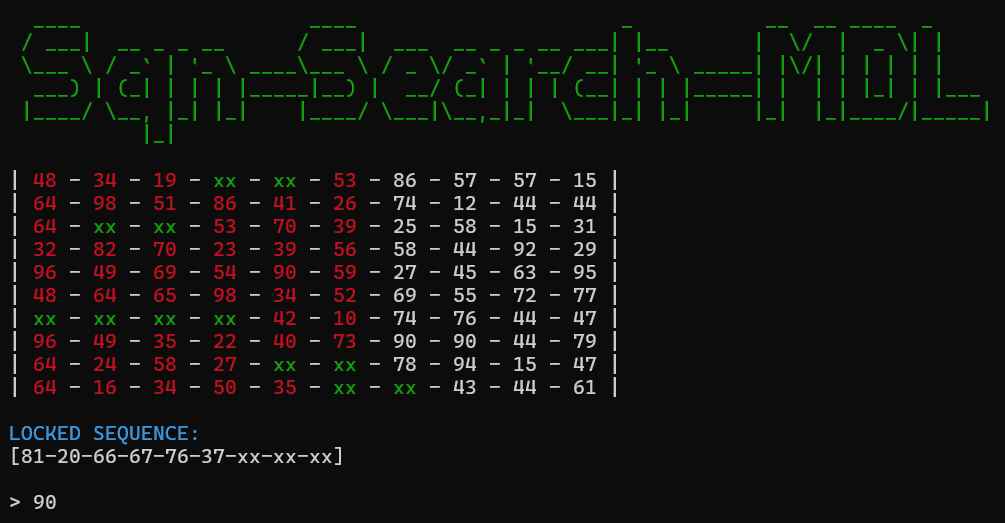
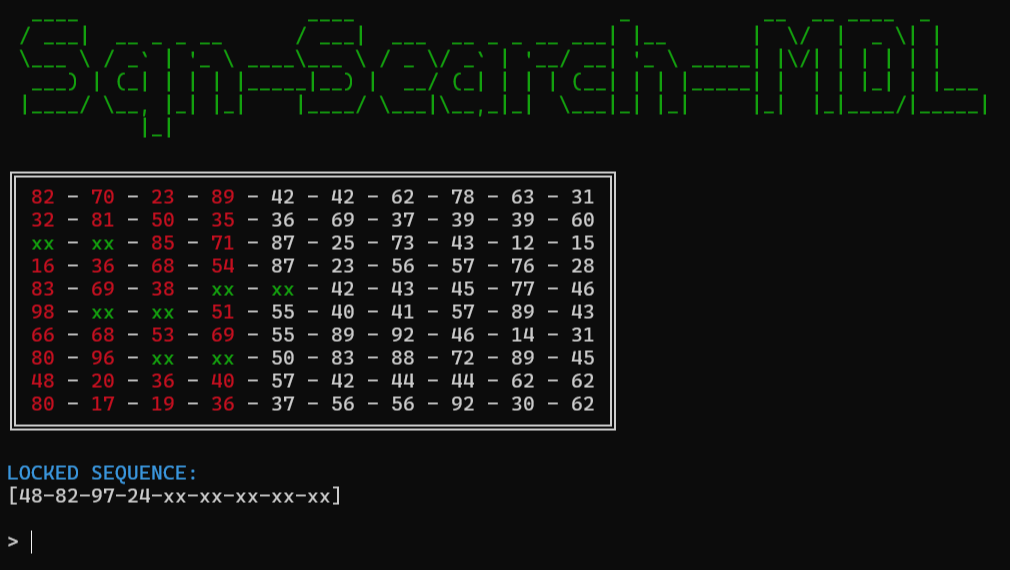
v1.1.0 - Input and Style Rework

Changed region(s): [[0.0, 0.0306, 0.9871, 0.7648], [0.0, 0.7954, 0.3393, 0.8872], [0.0, 0.9484, 0.0617, 0.979]]

diff --git a/src/main/java/dbrusev/Minijuego_ES.java b/src/main/java/dbrusev/Minijuego_ES.java
@@ -112,16 +112,17 @@ public class Minijuego_ES {
 				funciones.muestraSecuenciaDesbloqueada(secuenciaDesbloqueada, secuenciaNumeros.size());
 				try {System.out.print("> "); entradaUsuario = lector.nextInt();}
 				catch (InputMismatchException noEsNumero) {entradaUsuario = 0; lector.next(); funciones.limpiarConsola(false);}
+				if (entradaUsuario < 10) {funciones.limpiarConsola(false);}
 			}
-			
+
 			for (int i = 0; i < funciones.getFilas(); i++) {
-				if (entradaUsuario == secuenciaNumeros.get(0) && i == secuenciaFilas.get(0)) {
+				if (entradaUsuario == secuenciaNumeros.getFirst() && i == secuenciaFilas.getFirst()) {
 					secuenciaDesbloqueada.set(contadorColumna, Integer.toString(entradaUsuario));
 					tableroJuego[i][contadorColumna] = tableroJuego[i][contadorColumna+1] = "xx";
-					
-					secuenciaNumeros.remove(0); secuenciaFilas.remove(0);
+
+					secuenciaNumeros.removeFirst(); secuenciaFilas.removeFirst();
 					contadorColumna++; break;
-				}
+				} else {funciones.limpiarConsola(false);}
 			} funciones.limpiarConsola(false);
 		} contadorColumna++;
 		
@@ -136,7 +137,7 @@ public class Minijuego_ES {
 			System.out.print(" en " + tiempoCompletado + " segundos -\n");
 			
 			System.out.println("Estadísticas guardadas en " + ansi().fg(YELLOW).a(guardaStats.getLocalizacionArchivo()).reset());
-		} else {System.out.println("Modo debug " + ansi().fg(RED).a("activado").reset() + ": no se han guardado las estadísticas.");}
+		} else {System.out.print(" -\nModo debug " + ansi().fg(RED).a("activado").reset() + ": no se han guardado las estadísticas.");}
 	}
 	
 }

diff --git a/src/main/java/dbrusev/Minijuego_EN.java b/src/main/java/dbrusev/Minijuego_EN.java
@@ -112,16 +112,17 @@ public class Minijuego_EN {
 				funciones.muestraSecuenciaDesbloqueada(secuenciaDesbloqueada, secuenciaNumeros.size());
 				try {System.out.print("> "); entradaUsuario = lector.nextInt();}
 				catch (InputMismatchException noEsNumero) {entradaUsuario = 0; lector.next(); funciones.limpiarConsola(false);}
+				if (entradaUsuario < 10) {funciones.limpiarConsola(false);}
 			}
-			
+
 			for (int i = 0; i < funciones.getFilas(); i++) {
-				if (entradaUsuario == secuenciaNumeros.get(0) && i == secuenciaFilas.get(0)) {
+				if (entradaUsuario == secuenciaNumeros.getFirst() && i == secuenciaFilas.getFirst()) {
 					secuenciaDesbloqueada.set(contadorColumna, Integer.toString(entradaUsuario));
 					tableroJuego[i][contadorColumna] = tableroJuego[i][contadorColumna+1] = "xx";
-					
-					secuenciaNumeros.remove(0); secuenciaFilas.remove(0);
+
+					secuenciaNumeros.removeFirst(); secuenciaFilas.removeFirst();
 					contadorColumna++; break;
-				}
+				} else {funciones.limpiarConsola(false);}
 			} funciones.limpiarConsola(false);
 		} contadorColumna++;
 		
@@ -136,7 +137,7 @@ public class Minijuego_EN {
 			System.out.print(" in " + tiempoCompletado + " seconds -\n");
 			
 			System.out.println("Round stats saved in " + ansi().fg(YELLOW).a(guardaStats.getLocalizacionArchivo()).reset());
-		} else {System.out.println("Debug mode " + ansi().fg(RED).a("enabled").reset() + ": stats will not be saved.");}
+		} else {System.out.print(" -\nDebug mode " + ansi().fg(RED).a("enabled").reset() + ": stats will not be saved.");}
 	}
 	
 }

diff --git a/src/main/java/dbrusev/Funciones.java b/src/main/java/dbrusev/Funciones.java
@@ -134,9 +134,16 @@ public class Funciones {
 	}
 	
 	public void muestraTablero(String[][] tablero, int contador) {
+		int bordesTablero = (columnas - 1) + (columnas * 4);
 		muestraTitulo(); contador--;
+
+		System.out.print("╔");
+		for (int bordeDibujado = 0; bordeDibujado < bordesTablero; bordeDibujado++) {
+			System.out.print("═");
+		} System.out.print("╗\n");
+
 		for (int i = 0; i < filas; i++) {
-			System.out.print("| ");
+			System.out.print("║ ");
 			for (int j = 0; j < columnas; j++) {
 				if (tablero[i][j] == "xx") {
 					if (j + 1 == columnas) {System.out.print(ansi().fg(GREEN).a(tablero[i][j]).reset());}
@@ -150,8 +157,14 @@ public class Funciones {
 						else {System.out.print(tablero[i][j] + " - ");}
 					}
 				}
-			} System.out.print(" |\n");
+			} System.out.print(" ║\n");
 		}
+
+		System.out.print("╚");
+		for (int bordeDibujado = 0; bordeDibujado < bordesTablero; bordeDibujado++) {
+			System.out.print("═");
+		} System.out.print("╝\n");
+
 	}
 	
 	public void muestraSecuenciaDesbloqueada(List<String> secuencia, int numsPorDesbloquear) {

diff --git a/src/main/java/dbrusev/CPrincipal.java b/src/main/java/dbrusev/CPrincipal.java
@@ -21,7 +21,7 @@ public class CPrincipal {
 			System.out.println("AVAILABLE LANGUAGES:");
 			System.out.println("1) English");
 			System.out.println("2) Español\n");
-			try {System.out.print("> ");; idiomaEscogido = lector.nextInt();}
+			try {System.out.print("> "); idiomaEscogido = lector.nextInt();}
 			catch (Exception noEsNumero) {lector.next();}
 		}
 		
